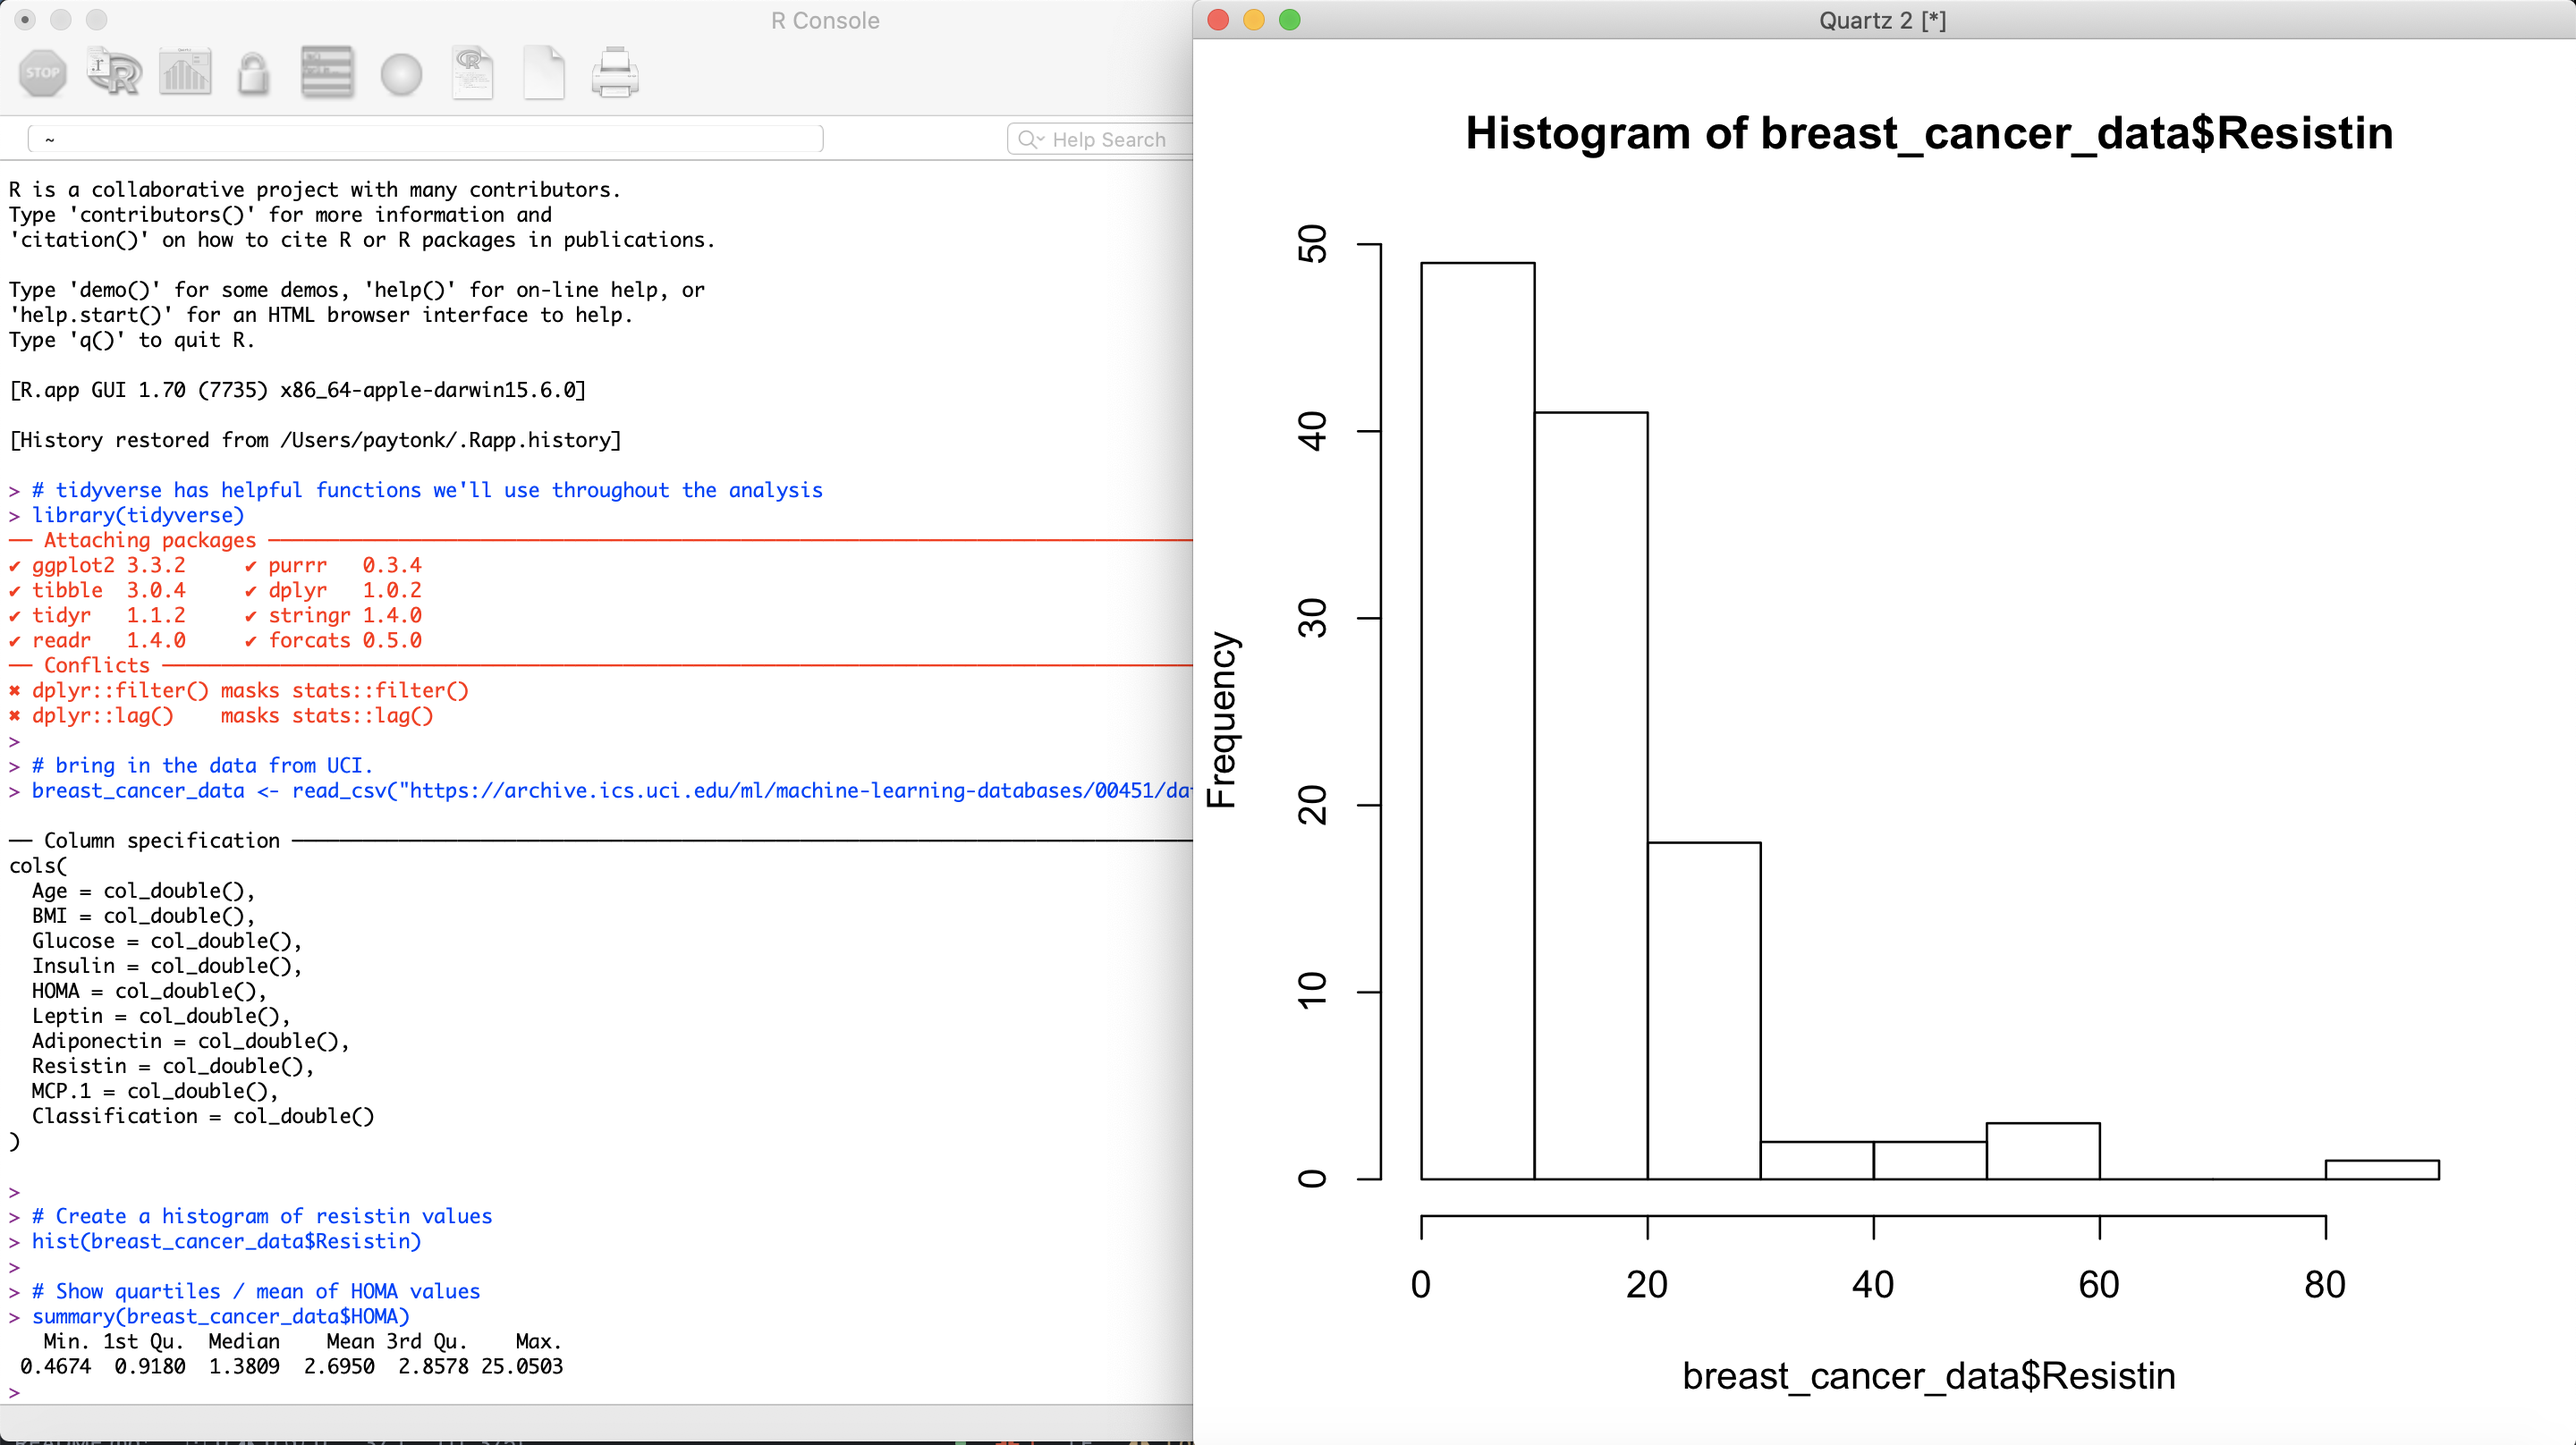
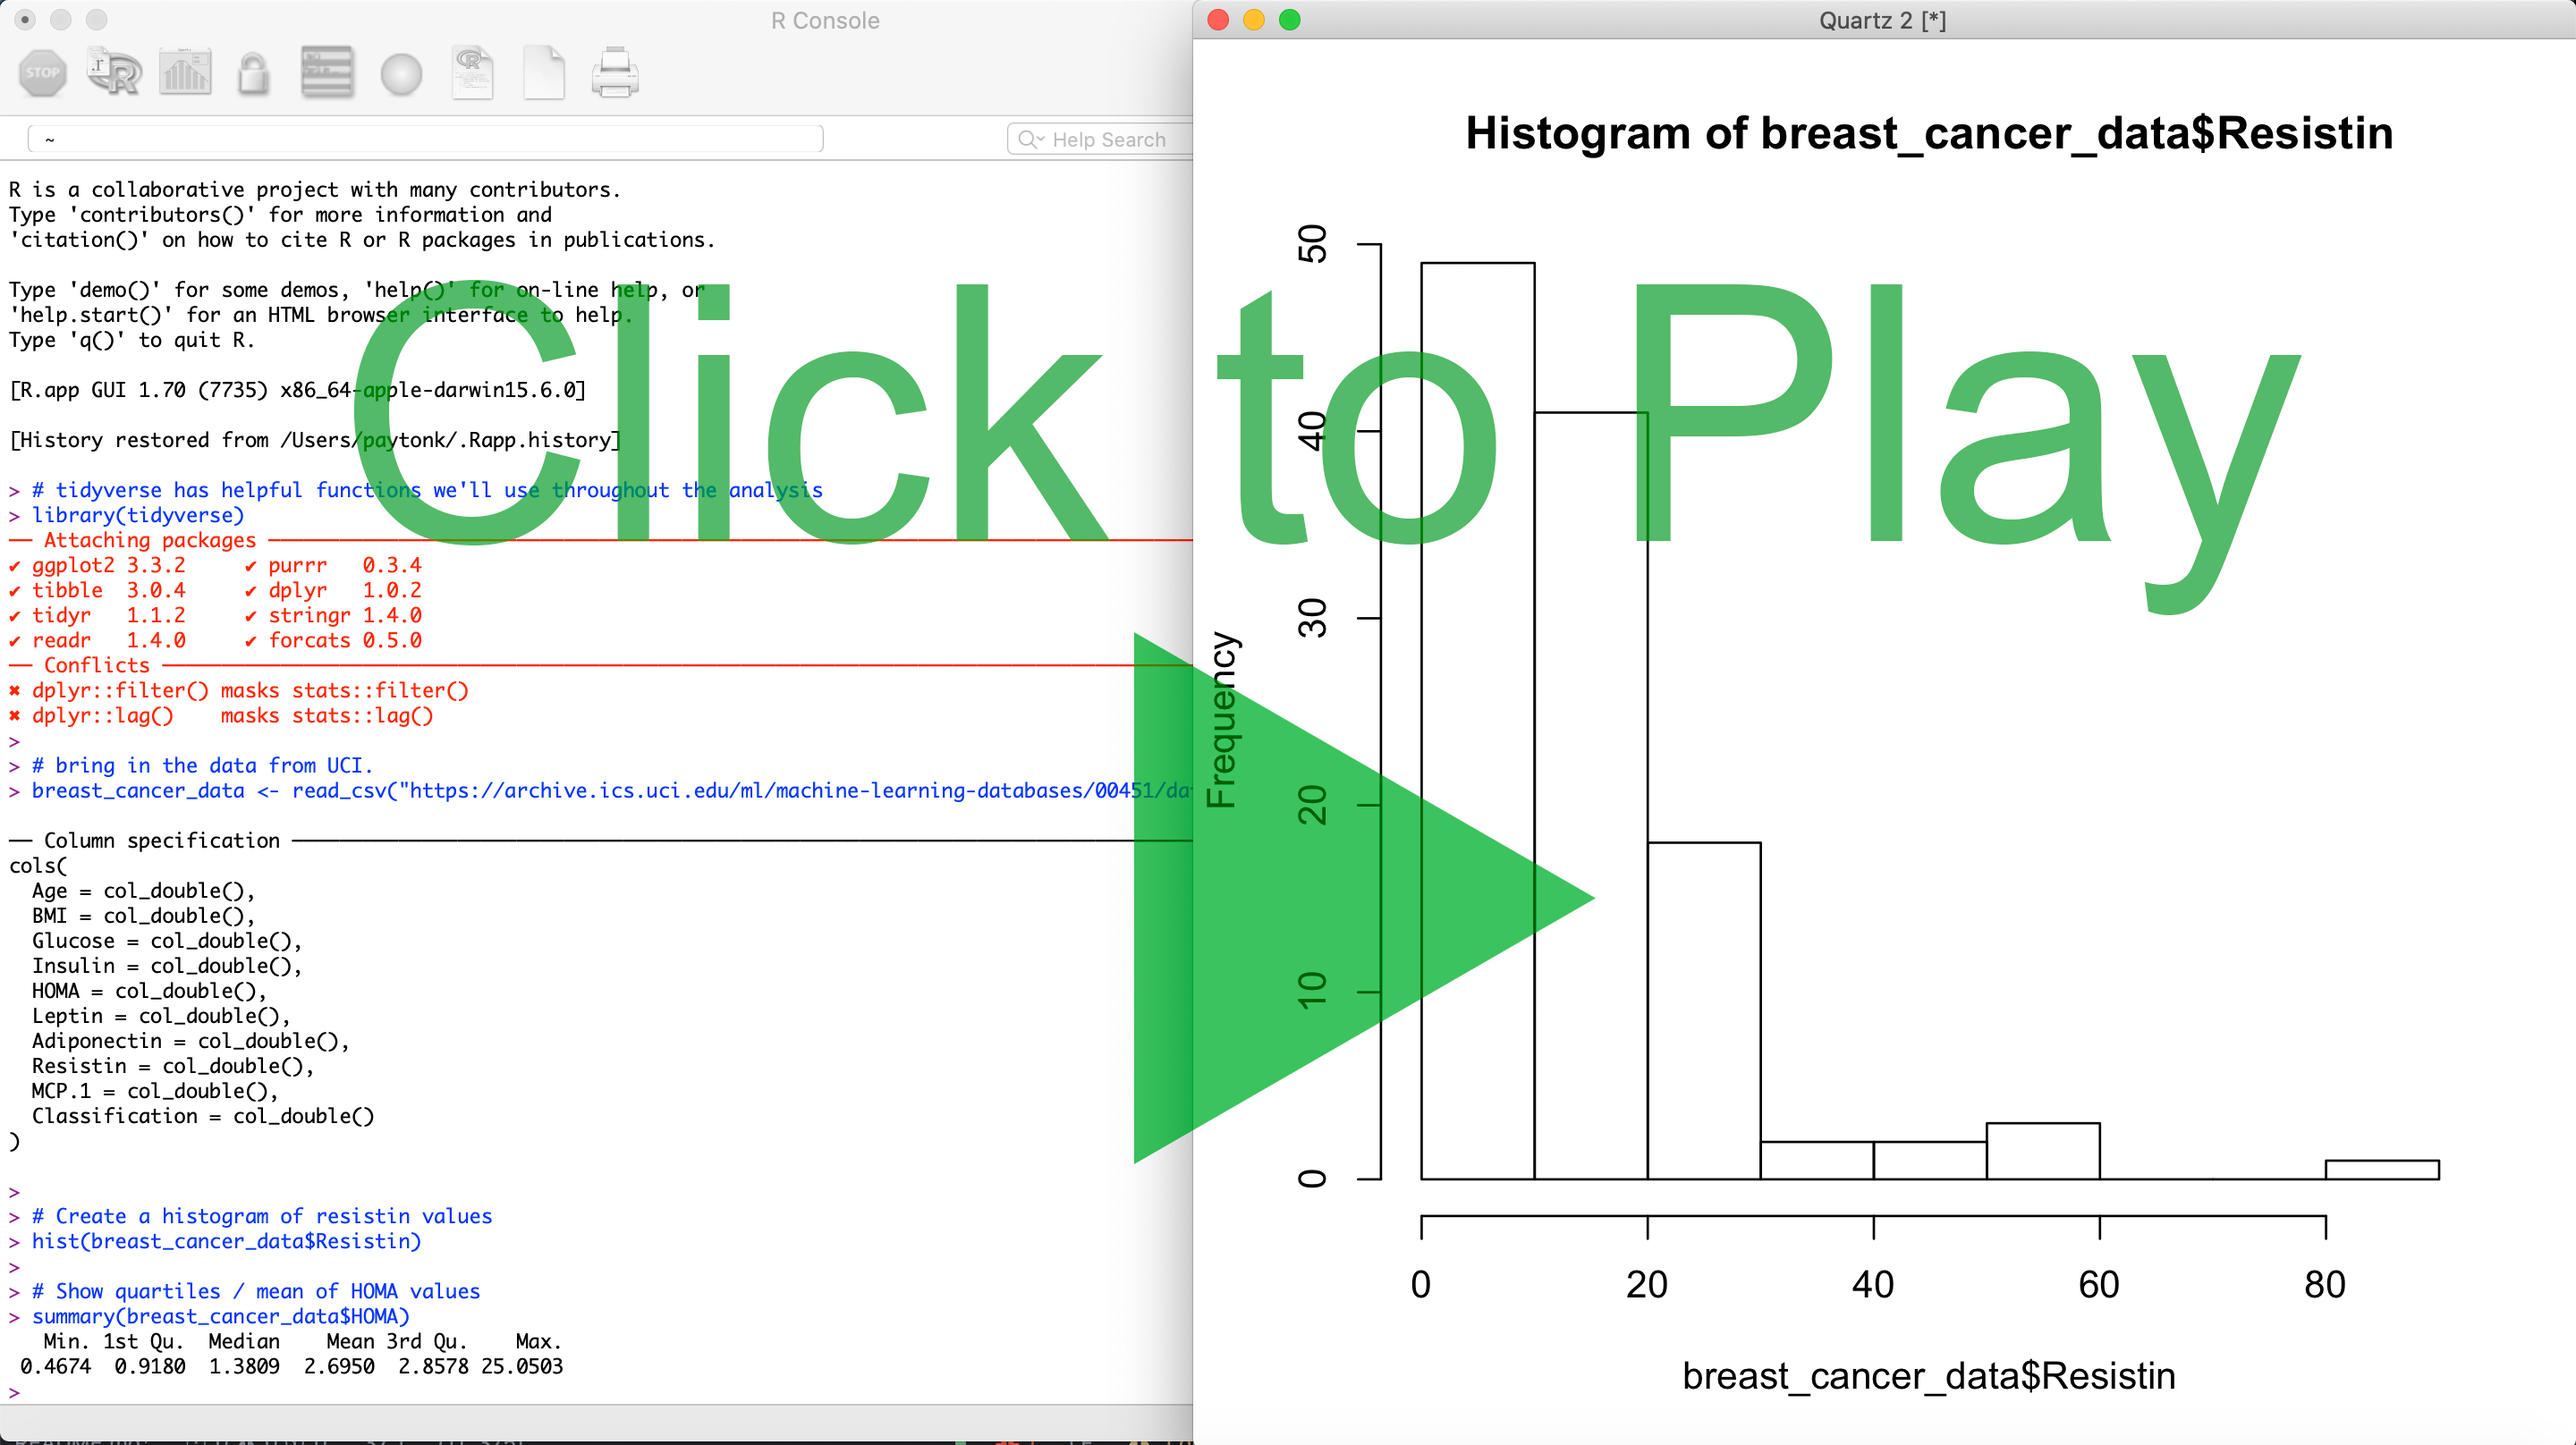
updated with image overlays

diff --git a/intro-to-r.md b/intro-to-r.md
@@ -156,7 +156,7 @@ RStudio is an **IDE**, or **Integrated Development Environment**, which pulls to
 
 ### Without RStudio
 
-We could run the code above in a simple **R console**, which is what you get when you install R by itself without using RStudio.  This isn't the most user friendly experience! In the screen recording shown below, we are **not** using RStudio, but rather the R Console.
+We could run the code above in a simple **R console**, which is what you get when you install R by itself without using RStudio.  This isn't the most user friendly experience! In the screen recording shown below, we are **not** using RStudio, but rather the R Console.  Click on the image to play the gif.
 
 <div style="display:none">@gifPreload</div>
 
@@ -176,7 +176,7 @@ Using the R.app or R console tool means very basic, bare-bones support for you a
 
 ### With RStudio
 
-On the other hand, you could run the same code in RStudio and see something like this:
+On the other hand, you could run the same code in RStudio and see something like this (click on the image to play the gif):
 
 <div style="display:none">@gifPreload</div>
 
